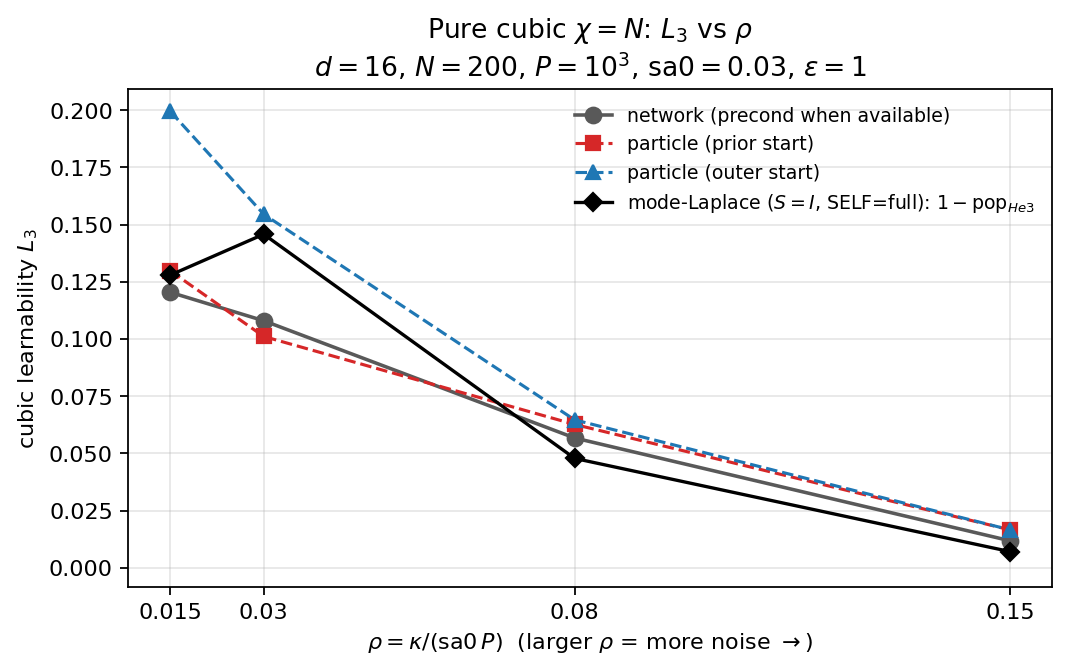
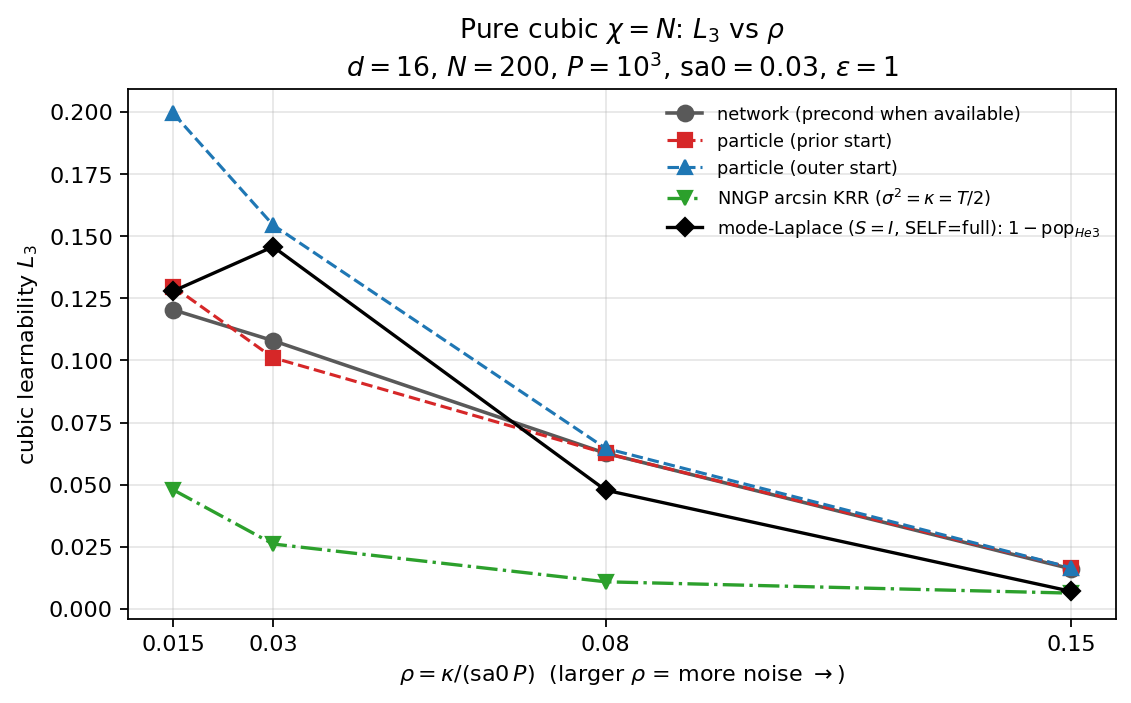
Add arcsin NNGP KRR learnability to PureCubic three-way L3 plot.
Same recovered training set as each ρ-run; infinite-width erf arcsin kernel
with ridge σ²=κ=T/2 (matches project deep-NNGP L3 and plot_model_vs_preact_krr).

diff --git a/milestones/fcn2_erf_hidden_kernel/plot_learnability_three_way.py b/milestones/fcn2_erf_hidden_kernel/plot_learnability_three_way.py
@@ -1,5 +1,5 @@
 #!/usr/bin/env python3
-"""Cubic learnability L3 vs ρ for network, particle theory, and off-data mode-Laplace.
+"""Cubic learnability L3 vs ρ: network, particle, mode-Laplace, arcsin NNGP.
 
 L3 = E[f_res He3] / E[y He3] (He1 residualized), same as train_fcn2_erf_sigma_a.cubic_learnability.
 
@@ -7,6 +7,8 @@ L3 = E[f_res He3] / E[y He3] (He1 residualized), same as train_fcn2_erf_sigma_a.
              else final cubic_learnability from each run's losses.json
   particle — cavity GP predictor from cached W (prior / outer starts) on a fresh test set
   Laplace  — (ε − pop_he3) / ε from mode_laplace_scfrac/summary (learned He3 mode coeff)
+  NNGP     — infinite-width erf arcsin kernel ridge on the same recovered training set
+             (plot_model_vs_preact_krr.arcsin_krr_predict_from_train; σ² = κ = T/2)
 
 Usage:
   python -u plot_learnability_three_way.py
@@ -21,6 +23,8 @@ from pathlib import Path
 import matplotlib.pyplot as plt
 import numpy as np
 import torch
+
+from plot_model_vs_preact_krr import arcsin_krr_predict_from_train
 
 HERE = Path(__file__).resolve().parent
 SWEEP = HERE / (
@@ -122,20 +126,16 @@ def laplace_L3(summary_path: Path) -> dict[float, float]:
     return out
 
 
-def particle_L3(rho: float, *, n_test: int, device: str, seed: int = 0) -> dict[str, float]:
+def _train_and_test(rho: float, *, n_test: int, device: str, seed: int = 0):
+    """Recover the run's training set; draw a fresh test set (same seed as particle path)."""
     from precond_langevin_warmstart import recover_training_set
 
-    z = np.load(PARTICLE / f"{tag(rho)}_particle.npz")
     run = select_run(rho)
     c = json.loads((run / "config.json").read_text())
-    d, P, N = int(c["d"]), int(c["P"]), int(c["N"])
+    d, P = int(c["d"]), int(c["P"])
     eps, he1 = float(c["eps"]), float(c.get("he1", 0.0))
-    sa0, chi = float(c["sa0"]), float(c.get("chi", N))
     T_bare = float(c["temperature"])
-    kappa = (T_bare / chi) / 2.0
-    sig_a2 = sa0 / (N * chi)
-    M = int(z["M"])
-    wt = N / M
+    kappa = T_bare / 2.0  # bare κ in ρ=κ/(sa0 P); arcsin ridge σ²=κ (project convention)
 
     rec = json.loads((run / "pred_vs_true.json").read_text())
     y_np = np.asarray(rec[max(rec, key=int)]["y_true"], dtype=float)
@@ -143,23 +143,46 @@ def particle_L3(rho: float, *, n_test: int, device: str, seed: int = 0) -> dict[
     DEV = torch.device(device if torch.cuda.is_available() else "cpu")
     X = torch.from_numpy(X_np).to(DEV, dtype=torch.float64)
     y = torch.from_numpy(y_np).to(DEV, dtype=torch.float64)
-    I = torch.eye(P, device=DEV, dtype=torch.float64)
 
     gen = torch.Generator(device=DEV)
     gen.manual_seed(seed)
     Xt = torch.randn(n_test, d, generator=gen, device=DEV, dtype=torch.float64)
     yt = he1 * Xt[:, 0] + eps * ((Xt[:, 0] ** 3 - 3 * Xt[:, 0]) / np.sqrt(6.0))
+    return run, c, kappa, X, y, Xt, yt
+
+
+def particle_L3(rho: float, *, n_test: int, device: str, seed: int = 0) -> dict[str, float]:
+    z = np.load(PARTICLE / f"{tag(rho)}_particle.npz")
+    _, c, _, X, y, Xt, yt = _train_and_test(rho, n_test=n_test, device=device, seed=seed)
+    d, N = int(c["d"]), int(c["N"])
+    sa0, chi = float(c["sa0"]), float(c.get("chi", N))
+    T_bare = float(c["temperature"])
+    # cavity ridge is T_eff/2 on K = σ_A² ΦΦᵀ (χ=N amplitude)
+    kappa_cav = (T_bare / chi) / 2.0
+    sig_a2 = sa0 / (N * chi)
+    M = int(z["M"])
+    wt = N / M
+    DEV = X.device
+    I = torch.eye(X.shape[0], device=DEV, dtype=torch.float64)
 
     out = {}
     for start in ("prior", "outer"):
         W = torch.from_numpy(np.asarray(z[f"W_{start}"], dtype=np.float64)).to(DEV)
         Phi = torch.erf(X @ W.T)
         K = sig_a2 * wt * (Phi @ Phi.T)
-        t = torch.cholesky_inverse(torch.linalg.cholesky(K + kappa * I)) @ y
+        t = torch.cholesky_inverse(torch.linalg.cholesky(K + kappa_cav * I)) @ y
         Phi_t = torch.erf(Xt @ W.T)
         f = (sig_a2 * wt * (Phi_t @ (Phi.T @ t))).detach().cpu().numpy()
         out[start] = cubic_L3_numpy(f, Xt.cpu().numpy(), yt.cpu().numpy())
     return out
+
+
+def nngp_arcsin_L3(rho: float, *, n_test: int, device: str, seed: int = 0) -> float:
+    """Arcsin (erf NNGP) KRR on the same training set; σ² = κ = T/2."""
+    _, _, kappa, X, y, Xt, yt = _train_and_test(rho, n_test=n_test, device=device, seed=seed)
+    with torch.no_grad():
+        f = arcsin_krr_predict_from_train(X, y, Xt, float(kappa))
+    return cubic_L3_numpy(f.detach().cpu().numpy(), Xt.cpu().numpy(), yt.cpu().numpy())
 
 
 def main():
@@ -175,12 +198,14 @@ def main():
     lap = laplace_L3(LAPLACE / "summary_scfrac.csv")
     rows = []
     print(
-        f"{'rho':>7} {'net':>8} {'net_src':>22} {'part_pri':>9} {'part_out':>9} {'laplace':>9}",
+        f"{'rho':>7} {'net':>8} {'net_src':>22} {'part_pri':>9} {'part_out':>9} "
+        f"{'nngp':>9} {'laplace':>9}",
         flush=True,
     )
     for rho in RHOS:
         net, net_src = network_L3(rho, n_test=args.n_test, device=args.device)
         part = particle_L3(rho, n_test=args.n_test, device=args.device)
+        nngp = nngp_arcsin_L3(rho, n_test=args.n_test, device=args.device)
         # nearest laplace rho key
         rkey = min(lap, key=lambda r: abs(r - rho))
         L = lap[rkey]
@@ -191,28 +216,30 @@ def main():
                 network_src=net_src,
                 particle_prior=part["prior"],
                 particle_outer=part["outer"],
+                nngp=nngp,
                 laplace=L,
             )
         )
         print(
-            f"{rho:7g} {net:8.4f} {net_src:>22} {part['prior']:9.4f} {part['outer']:9.4f} {L:9.4f}",
+            f"{rho:7g} {net:8.4f} {net_src:>22} {part['prior']:9.4f} {part['outer']:9.4f} "
+            f"{nngp:9.4f} {L:9.4f}",
             flush=True,
         )
 
     # CSV
     csv_path = out.with_suffix(".csv")
     with csv_path.open("w") as f:
-        f.write("rho,network,network_src,particle_prior,particle_outer,laplace\n")
+        f.write("rho,network,network_src,particle_prior,particle_outer,nngp_arcsin,laplace\n")
         for r in rows:
             f.write(
                 f"{r['rho']},{r['network']},{r['network_src']},"
-                f"{r['particle_prior']},{r['particle_outer']},{r['laplace']}\n"
+                f"{r['particle_prior']},{r['particle_outer']},{r['nngp']},{r['laplace']}\n"
             )
     print(f"wrote {csv_path}", flush=True)
 
     rows = sorted(rows, key=lambda r: r["rho"])  # increasing ρ = more noise →
     rhos = np.array([r["rho"] for r in rows])
-    fig, ax = plt.subplots(figsize=(6.8, 4.4))
+    fig, ax = plt.subplots(figsize=(7.2, 4.6))
     ax.plot(
         rhos,
         [r["network"] for r in rows],
@@ -242,6 +269,15 @@ def main():
     )
     ax.plot(
         rhos,
+        [r["nngp"] for r in rows],
+        "v-.",
+        color="C2",
+        lw=1.5,
+        ms=6,
+        label=r"NNGP arcsin KRR ($\sigma^2=\kappa=T/2$)",
+    )
+    ax.plot(
+        rhos,
         [r["laplace"] for r in rows],
         "D-",
         color="k",
@@ -259,7 +295,7 @@ def main():
     ax.set_xticks(list(rhos))
     ax.set_xticklabels([f"{r:g}" for r in rhos])
     ax.grid(True, alpha=0.3)
-    ax.legend(frameon=False, fontsize=8.5)
+    ax.legend(frameon=False, fontsize=8.0)
     ax.set_ylim(bottom=min(0.0, min(r["network"] for r in rows) - 0.02))
     fig.tight_layout()
     fig.savefig(out, dpi=160, bbox_inches="tight")
